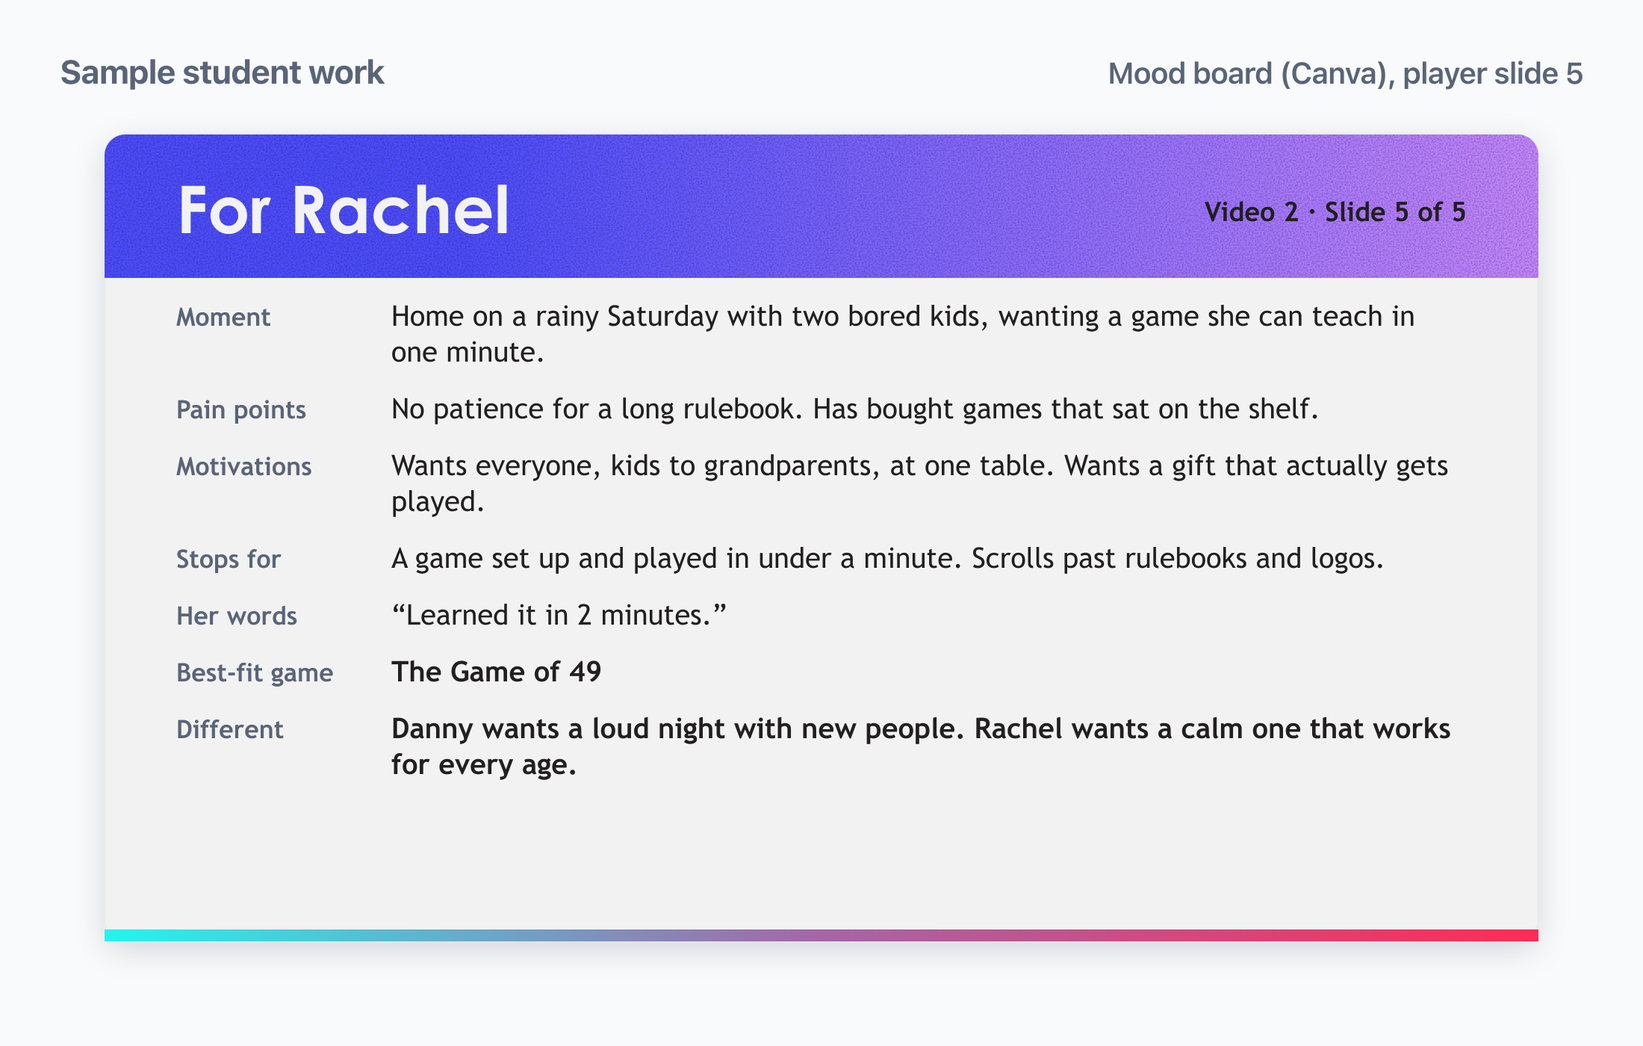
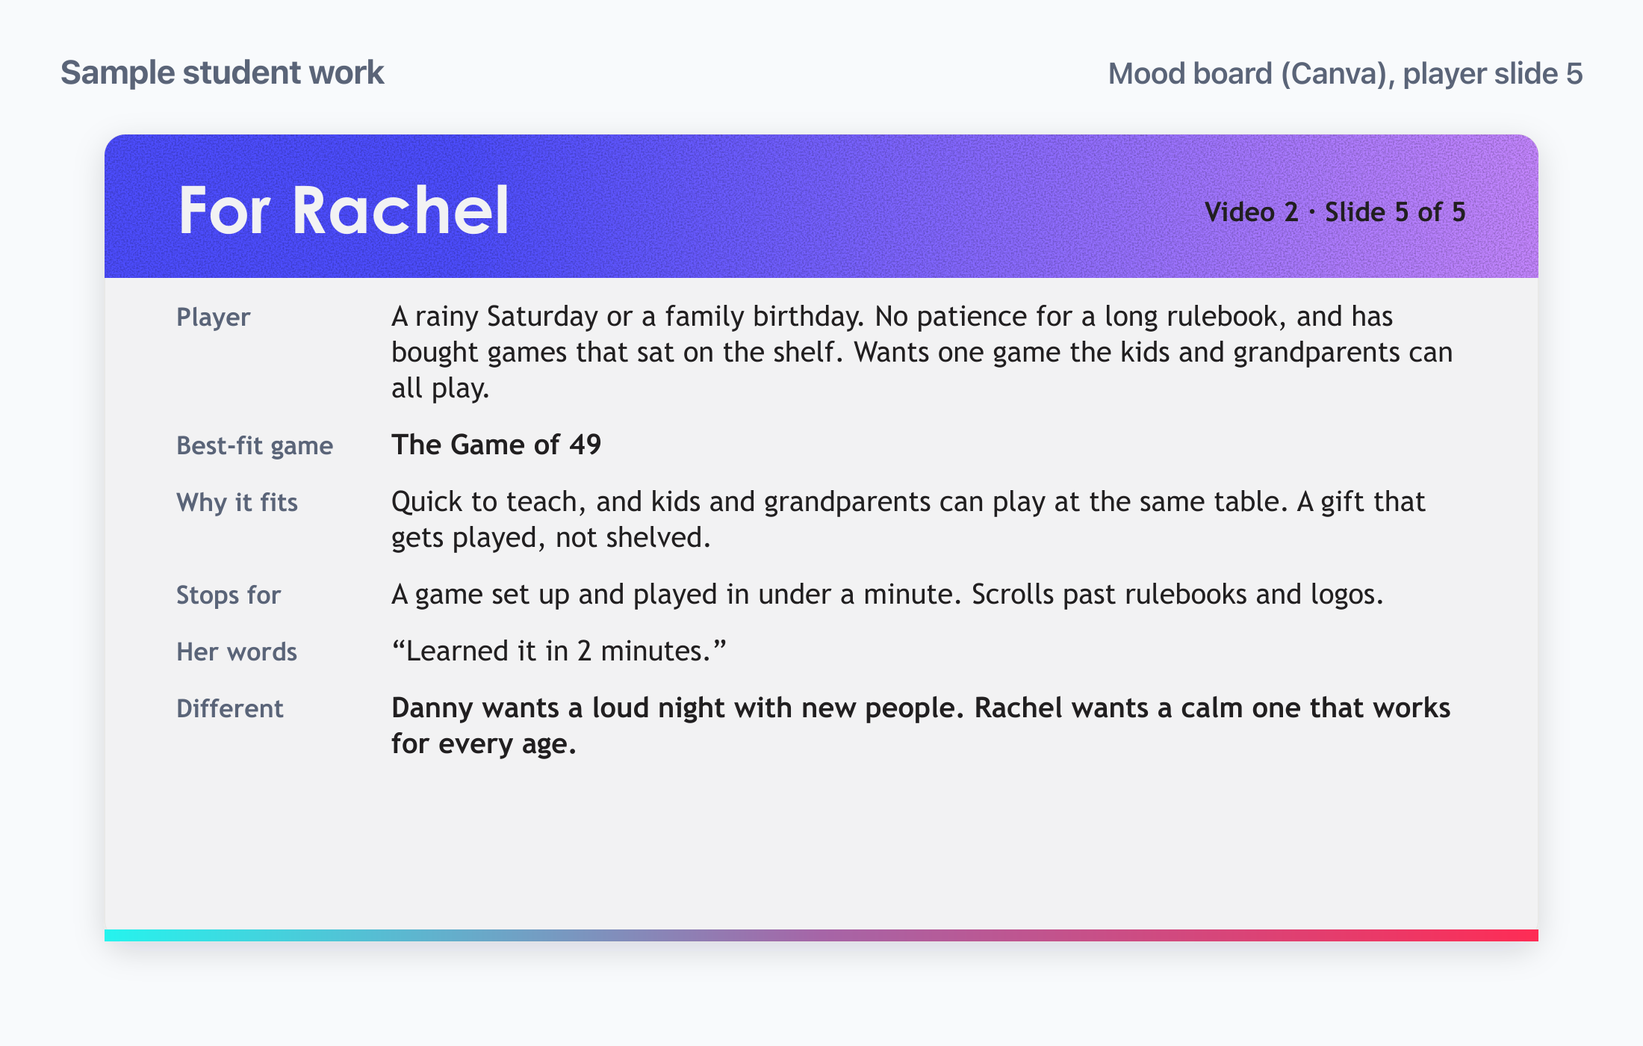
BG P2 Scroll tasks: pick the best-fit game instead of guessing pain points; 5-row player slides

diff --git a/breaking-games-p2-scroll-as-your-player-steps.html b/breaking-games-p2-scroll-as-your-player-steps.html
@@ -64,35 +64,36 @@ const TASK = {
   "steps": [
     {
       "title": "Set up your scroll notes",
-      "instruction": "Make a Google Doc named <b>BG-Scroll-Notes-[YourName]</b>. Add your player's name as a heading, your 2 questions from the last page, a <b>Saves</b> line and these 4 questions:",
+      "instruction": "Make a Google Doc named <b>BG-Scroll-Notes-[YourName]</b>. Add your player's name as a heading, then one line from their card: their moment, pain point and motivation in your own words. Add your 2 questions from the last page, a <b>Saves</b> line and these 4 questions:",
       "items": [
-        "<b>Moment:</b> Where are they, and what do they want right now?",
+        "<b>Games:</b> Which of your player's best-fit games show up? Does anything say a game fixes their pain point?",
         "<b>Stop:</b> What makes them stop, and what do they scroll past? Name something you could film.",
-        "<b>Their words:</b> Copy 1 or 2 phrases people like them use in captions or comments.",
-        "<b>Fit:</b> Which Breaking Games game fits that moment? Would they know it from what Breaking Games posts?"
+        "<b>Pain point and motivation:</b> Which posts speak to them? What do those posts show or say?",
+        "<b>Their words:</b> Copy 1 or 2 phrases people like them use in captions or comments."
       ],
       "sample": {
         "label": "Sample",
         "kind": "text",
-        "body": "BG-Scroll-Notes-JordanLee\nFor Danny\nMy questions: What does he comment on? Would he know Breaking Games?\nSaves: 1. 2. 3.\n1. Moment:\n2. Stop:\n3. Their words:\n4. Fit:"
+        "body": "BG-Scroll-Notes-JordanLee\nFor Danny\nFrom the card: Friday game night, 8 people, half strangers. Doesn't know which game works for a mixed group. Wants a night that works, and to be the one who found the game.\nMy questions: What does he comment on? Would he know Breaking Games?\nSaves: 1. 2. 3.\n1. Games:\n2. Stop:\n3. Pain point and motivation:\n4. Their words:"
       },
-      "onTrack": "your doc has a heading, a Saves line and all 4 questions.",
+      "onTrack": "your doc has the card line, a Saves line and all 4 questions.",
       "stuck": [
+        "Don't have the card handy? The text version of the Meet Rachel and Danny slides is on the last page.",
         "<b>Watch only</b>: don't like, comment, follow or tag anyone."
       ]
     },
     {
       "title": "Scroll as your player (20 minutes)",
-      "instruction": "Scroll on your phone (or a narrow browser window) where your player scrolls. Save 3 posts they'd stop for, each with one line on why. Then answer the 4 questions.",
+      "instruction": "Scroll on your phone (or a narrow browser window) where your player scrolls. Look for their best-fit games and for what would stop their scroll. Save 3 posts they'd stop for, each with one line on why. Then answer the 4 questions.",
       "items": [
-        "<b>Website (5 min):</b> <a href=\"https://breakinggames.com/collections/all-games\" target=\"_blank\" rel=\"noopener\">breakinggames.com: All Games<span class=\"sr-only\"> (opens in a new tab)</span></a>. Does anything tell your player a game fits their moment?",
-        "<b>Breaking Games' posts (5 min):</b> <a href=\"https://www.instagram.com/breaking_games/\" target=\"_blank\" rel=\"noopener\">Instagram<span class=\"sr-only\"> (opens in a new tab)</span></a> and <a href=\"https://www.facebook.com/BreakingGamesLLC/\" target=\"_blank\" rel=\"noopener\">Facebook<span class=\"sr-only\"> (opens in a new tab)</span></a> for Rachel, or <a href=\"https://www.tiktok.com/@breakinggamesllc\" target=\"_blank\" rel=\"noopener\">@breakinggamesllc<span class=\"sr-only\"> (opens in a new tab)</span></a> on TikTok for Danny. Which would they stop for?",
-        "<b>The wider feed (10 min):</b> <a href=\"https://www.instagram.com/explore/tags/familygamenight/\" target=\"_blank\" rel=\"noopener\">#familygamenight<span class=\"sr-only\"> (opens in a new tab)</span></a> and <a href=\"https://www.instagram.com/explore/tags/boardgamenight/\" target=\"_blank\" rel=\"noopener\">#boardgamenight<span class=\"sr-only\"> (opens in a new tab)</span></a> for Rachel, or <a href=\"https://www.tiktok.com/tag/gamenight\" target=\"_blank\" rel=\"noopener\">#gamenight<span class=\"sr-only\"> (opens in a new tab)</span></a>, <a href=\"https://www.tiktok.com/tag/boardgames\" target=\"_blank\" rel=\"noopener\">#boardgames<span class=\"sr-only\"> (opens in a new tab)</span></a> and <a href=\"https://www.tiktok.com/tag/partygames\" target=\"_blank\" rel=\"noopener\">#partygames<span class=\"sr-only\"> (opens in a new tab)</span></a> for Danny. What would they save or send to a friend?"
+        "<b>Website (5 min):</b> <a href=\"https://breakinggames.com/collections/all-games\" target=\"_blank\" rel=\"noopener\">breakinggames.com: All Games<span class=\"sr-only\"> (opens in a new tab)</span></a>. Find your player's best-fit games. Would anything on the page tell them a game fixes their pain point?",
+        "<b>Breaking Games' posts (5 min):</b> <a href=\"https://www.instagram.com/breaking_games/\" target=\"_blank\" rel=\"noopener\">Instagram<span class=\"sr-only\"> (opens in a new tab)</span></a> and <a href=\"https://www.facebook.com/BreakingGamesLLC/\" target=\"_blank\" rel=\"noopener\">Facebook<span class=\"sr-only\"> (opens in a new tab)</span></a> for Rachel, or <a href=\"https://www.tiktok.com/@breakinggamesllc\" target=\"_blank\" rel=\"noopener\">@breakinggamesllc<span class=\"sr-only\"> (opens in a new tab)</span></a> on TikTok for Danny. Do any of their best-fit games show up? Which post would they stop for?",
+        "<b>The wider feed (10 min):</b> <a href=\"https://www.instagram.com/explore/tags/familygamenight/\" target=\"_blank\" rel=\"noopener\">#familygamenight<span class=\"sr-only\"> (opens in a new tab)</span></a> and <a href=\"https://www.instagram.com/explore/tags/boardgamenight/\" target=\"_blank\" rel=\"noopener\">#boardgamenight<span class=\"sr-only\"> (opens in a new tab)</span></a> for Rachel, or <a href=\"https://www.tiktok.com/tag/gamenight\" target=\"_blank\" rel=\"noopener\">#gamenight<span class=\"sr-only\"> (opens in a new tab)</span></a>, <a href=\"https://www.tiktok.com/tag/boardgames\" target=\"_blank\" rel=\"noopener\">#boardgames<span class=\"sr-only\"> (opens in a new tab)</span></a> and <a href=\"https://www.tiktok.com/tag/partygames\" target=\"_blank\" rel=\"noopener\">#partygames<span class=\"sr-only\"> (opens in a new tab)</span></a> for Danny. What stops them? What would they save or send to a friend?"
       ],
       "sample": {
         "label": "Sample (Danny)",
         "kind": "text",
-        "body": "Save 1: [link] Four friends guess a word game out loud, and one gets it wrong in a funny way.\n1. Moment: texting 7 friends on Thursday, wanting a game for people who just met.\n2. Stop: people reacting out loud. Scrolls past: product shots with no people.\n3. His words: \"who's in Friday?\"\n4. Fit: Caminito, but the brand's TikTok hasn't posted in a long time."
+        "body": "Save 1: [link] Four friends guess a word game out loud, and one gets it wrong in a funny way. Why: the whole table reacts.\n1. Games: Caminito and Hypothetically Fun are on the site, but nothing says \"good for people who just met.\" The brand's TikTok hasn't posted in a long time.\n2. Stop: people reacting out loud. Scrolls past: product shots with no people.\n3. Pain point and motivation: posts that name the group size (\"8 players!\") get comments like \"good for strangers?\"\n4. His words: \"who's in Friday?\""
       },
       "onTrack": "you have 3 saves with a why, and your Stop line names something you could film, not a feeling like \"fun.\"",
       "stuck": [
@@ -102,33 +103,38 @@ const TASK = {
       ]
     },
     {
-      "title": "Guess their pain points and motivations",
-      "instruction": "Your scroll holds clues about what bugs your player and what they want. Write <b>2 pain points</b> and <b>2 motivations</b>, each with the clue behind it.",
+      "title": "Pick the best-fit game",
+      "instruction": "From your player's best-fit games, pick the one you'd show them first. Write 3 lines:",
+      "items": [
+        "<b>Fixes:</b> how the game answers their pain point.",
+        "<b>Gives them:</b> how it gets them what they want.",
+        "<b>Stops the scroll with:</b> one moment from playing it that you could film, based on what stopped them in your scroll."
+      ],
       "sample": {
         "label": "Sample (Danny)",
         "kind": "text",
-        "body": "Pain point: doesn't know which game works for people who just met. Clue: #partygames comments asking \"good for strangers?\"\nPain point: skips anything that looks like an ad. Clue: he'd scroll right past the product shots.\nMotivation: wants the night to feel easy and loud. Clue: all 3 saves show people reacting.\nMotivation: wants to be the friend who found the good game. Clue: \"who's in Friday?\" captions."
+        "body": "Game: Caminito\nFixes: it's built for a group, so half-strangers can play it together.\nGives him: a Friday that works, and he's the one who found the game.\nStops the scroll with: the whole table reacting out loud to one turn. All 3 of my saves were people reacting, not boxes."
       },
-      "onTrack": "each guess has a clue from your scroll, not just the card.",
+      "onTrack": "your \"Stops the scroll with\" line is something you could film this week, and it comes from your saves.",
       "stuck": [
-        "No clue for a guess? Mark it \"(from the card)\" and keep it. It's a guess your videos will test."
+        "Torn between two games? Pick the one you can get on camera: a copy at home, a friend's copy, or the <a href=\"https://smitabudhiaextern.github.io/extern-html-pages/bg-image-deck.html\" target=\"_blank\" rel=\"noopener\">Breaking Games product image deck<span class=\"sr-only\"> (opens in a new tab)</span></a>.",
+        "Not sure how a game plays? Read its page on breakinggames.com: the player count, play time and ages tell you a lot."
       ]
     },
     {
       "title": "Add your player slide",
-      "instruction": "In your Project 1 mood board on Canva, add one slide at the end: <b>For [your player]</b>. Use your board's colors and fonts, and give it 6 rows:",
+      "instruction": "In your Project 1 mood board on Canva, add one slide at the end: <b>For [your player]</b>. Use your board's colors and fonts, and give it 5 rows:",
       "items": [
-        "<b>Moment:</b> where they are and what they want right now.",
-        "<b>Pain points:</b> your 2 guesses, from step 3.",
-        "<b>Motivations:</b> your 2 guesses, from step 3.",
-        "<b>Stops for:</b> what makes them stop, and what they scroll past.",
-        "<b>Their words:</b> 1 or 2 phrases they'd use.",
-        "<b>Best-fit game:</b> the Breaking Games game that fits their moment."
+        "<b>Player:</b> their moment, pain point and motivation, summed up from the player card.",
+        "<b>Best-fit game:</b> the game you picked in step 3.",
+        "<b>Why it fits:</b> how it fixes their pain point and gives them what they want.",
+        "<b>Stops for:</b> what would stop their scroll for this game, and what they scroll past.",
+        "<b>Their words:</b> 1 or 2 phrases they'd use."
       ],
       "sample": {
         "label": "Sample (the \"For Danny\" slide)",
         "kind": "text",
-        "body": "For Danny\nMoment: texting 7 friends on Thursday about Friday, wanting a game for people who just met.\nPain points: doesn't know which game works for strangers; skips anything that looks like an ad.\nMotivations: wants the night to feel easy and loud; wants to be the friend who found the good game.\nStops for: people reacting out loud. Scrolls past: product shots with no people.\nHis words: \"who's in Friday?\"\nBest-fit game: Caminito"
+        "body": "For Danny\nPlayer: planning Friday for 8 people, half strangers. Doesn't know which game works for a mixed group, and skips ads. Wants a night that works, and to be the one who found the game.\nBest-fit game: Caminito\nWhy it fits: it's built for a group, so half-strangers can play it together. If the night goes well, Danny gets the credit.\nStops for: a whole table reacting out loud to one turn. Scrolls past: product shots with no people.\nHis words: \"who's in Friday?\""
       },
       "onTrack": "every row is filled in, and the slide looks like the rest of your board.",
       "stuck": [
@@ -155,12 +161,12 @@ const TASK = {
     "intro": "Your program manager checks your player slide against these three things.",
     "criteria": [
       {
-        "name": "Your scroll",
-        "lookFor": "The moment and \"stops for\" lines come from your own scroll, not just the player card."
+        "name": "Your game pick",
+        "lookFor": "One best-fit game, with how it fixes your player's pain point and gets them what they want."
       },
       {
-        "name": "Your guesses",
-        "lookFor": "2 pain points and 2 motivations, each backed by a clue."
+        "name": "Your scroll",
+        "lookFor": "The \"stops for\" line names something you could film, and it comes from your own scroll, not just the player card."
       },
       {
         "name": "On-brand",

diff --git a/breaking-games-p2-scroll-as-your-second-player-steps.html b/breaking-games-p2-scroll-as-your-second-player-steps.html
@@ -81,7 +81,7 @@ const TASK = {
     },
     {
       "title": "Scroll as them (20 minutes)",
-      "instruction": "In your <b>BG-Scroll-Notes</b> doc, add a heading for your second player, a <b>Saves</b> line and the same 4 questions. Then scroll where they scroll. Save 3 posts they'd stop for, each with a why, and answer the 4 questions.",
+      "instruction": "In your <b>BG-Scroll-Notes</b> doc, add a heading for your second player, one line from their card (moment, pain point and motivation), a <b>Saves</b> line and the same 4 questions. Then scroll where they scroll, looking for their best-fit games and what would stop them. Save 3 posts they'd stop for, each with a why, and answer the 4 questions.",
       "items": [
         "<b>For Rachel:</b> <a href=\"https://breakinggames.com/collections/all-games\" target=\"_blank\" rel=\"noopener\">breakinggames.com: All Games<span class=\"sr-only\"> (opens in a new tab)</span></a>, Breaking Games on <a href=\"https://www.instagram.com/breaking_games/\" target=\"_blank\" rel=\"noopener\">Instagram<span class=\"sr-only\"> (opens in a new tab)</span></a> and <a href=\"https://www.facebook.com/BreakingGamesLLC/\" target=\"_blank\" rel=\"noopener\">Facebook<span class=\"sr-only\"> (opens in a new tab)</span></a>, then <a href=\"https://www.instagram.com/explore/tags/familygamenight/\" target=\"_blank\" rel=\"noopener\">#familygamenight<span class=\"sr-only\"> (opens in a new tab)</span></a> and <a href=\"https://www.instagram.com/explore/tags/boardgamenight/\" target=\"_blank\" rel=\"noopener\">#boardgamenight<span class=\"sr-only\"> (opens in a new tab)</span></a>.",
         "<b>For Danny:</b> <a href=\"https://www.tiktok.com/@breakinggamesllc\" target=\"_blank\" rel=\"noopener\">@breakinggamesllc<span class=\"sr-only\"> (opens in a new tab)</span></a>, <a href=\"https://breakinggames.com/collections/all-games\" target=\"_blank\" rel=\"noopener\">breakinggames.com: All Games<span class=\"sr-only\"> (opens in a new tab)</span></a>, then <a href=\"https://www.tiktok.com/tag/gamenight\" target=\"_blank\" rel=\"noopener\">#gamenight<span class=\"sr-only\"> (opens in a new tab)</span></a>, <a href=\"https://www.tiktok.com/tag/boardgames\" target=\"_blank\" rel=\"noopener\">#boardgames<span class=\"sr-only\"> (opens in a new tab)</span></a> and <a href=\"https://www.tiktok.com/tag/partygames\" target=\"_blank\" rel=\"noopener\">#partygames<span class=\"sr-only\"> (opens in a new tab)</span></a>.",
@@ -90,7 +90,7 @@ const TASK = {
       "sample": {
         "label": "Sample (Rachel)",
         "kind": "text",
-        "body": "Save 1: [link] Hands deal cards while two kids shout guesses. Why: it's how fast she needs a game to be.\n1. Moment: rainy Saturday, kids want screens, Grandpa comes for dinner.\n2. Stop: a game set up and played in under a minute. Scrolls past: rulebooks and logos.\n3. Her words: \"learned it in 2 minutes\"\n4. Fit: The Game of 49, but nothing on the page says \"family night.\""
+        "body": "From the card: rainy Saturday or a family birthday. No patience for a long rulebook. Wants one game the kids and grandparents can all play.\nSave 1: [link] Hands deal cards while two kids shout guesses. Why: it's how fast she needs a game to be.\n1. Games: The Game of 49 and Play2Read are on the site, but nothing on the page says \"family night.\"\n2. Stop: a game set up and played in under a minute. Scrolls past: rulebooks and logos.\n3. Pain point and motivation: #familygamenight posts showing grandparents and kids at one table get the most saves.\n4. Her words: \"learned it in 2 minutes\""
       },
       "onTrack": "your answers are different from your first player's.",
       "stuck": [
@@ -99,33 +99,32 @@ const TASK = {
       ]
     },
     {
-      "title": "Guess their pain points and motivations",
-      "instruction": "Same as last week: write <b>2 pain points</b> and <b>2 motivations</b>, each with the clue from your scroll behind it.",
+      "title": "Pick the best-fit game",
+      "instruction": "Same as last week: pick one of their best-fit games and write 3 lines: <b>Fixes</b> (their pain point), <b>Gives them</b> (what they want) and <b>Stops the scroll with</b> (one moment you could film).",
       "sample": {
         "label": "Sample (Rachel)",
         "kind": "text",
-        "body": "Pain point: no patience for a long rulebook. Clue: the posts she'd save all show a game being played in seconds.\nPain point: has bought games that sat on the shelf. Clue: #familygamenight comments like \"finally one the kids will play.\"\nMotivation: wants every age at one table. Clue: her saves show grandparents and kids playing together.\nMotivation: wants a gift that actually gets played. Clue: \"game gift ideas\" posts get the most saves."
+        "body": "Game: The Game of 49\nFixes: quick to teach, so no rulebook night.\nGives her: one game the kids and grandparents play together, and a gift that gets played, not shelved.\nStops the scroll with: the box opened and the first round played in under a minute. Her saves were all fast set-ups."
       },
-      "onTrack": "each guess has a clue from your scroll, not just the card.",
+      "onTrack": "your \"Stops the scroll with\" line is something you could film, and it comes from your saves.",
       "stuck": [
-        "No clue for a guess? Mark it \"(from the card)\" and keep it."
+        "Built your own player? Use the best-fit games on the card you wrote."
       ]
     },
     {
       "title": "Add their player slide",
-      "instruction": "Add a second player slide to your mood board with the same 6 rows, plus one more line: <b>\"Different from my first player because ___.\"</b>",
+      "instruction": "Add a second player slide to your mood board with the same 5 rows, plus one more line: <b>\"Different from my first player because ___.\"</b>",
       "items": [
-        "<b>Moment:</b> where they are and what they want right now.",
-        "<b>Pain points:</b> your 2 guesses, from step 3.",
-        "<b>Motivations:</b> your 2 guesses, from step 3.",
-        "<b>Stops for:</b> what makes them stop, and what they scroll past.",
-        "<b>Their words:</b> 1 or 2 phrases they'd use.",
-        "<b>Best-fit game:</b> the Breaking Games game that fits their moment."
+        "<b>Player:</b> their moment, pain point and motivation, summed up from the player card.",
+        "<b>Best-fit game:</b> the game you picked in step 3.",
+        "<b>Why it fits:</b> how it fixes their pain point and gives them what they want.",
+        "<b>Stops for:</b> what would stop their scroll for this game, and what they scroll past.",
+        "<b>Their words:</b> 1 or 2 phrases they'd use."
       ],
       "sample": {
         "label": "Sample (the \"For Rachel\" slide)",
         "kind": "text",
-        "body": "For Rachel\nMoment: home on a rainy Saturday with two bored kids, wanting a game she can teach in one minute.\nPain points: no patience for a long rulebook; has bought games that sat on the shelf.\nMotivations: wants everyone, kids to grandparents, at one table; wants a gift that actually gets played.\nStops for: a game set up and played in under a minute. Scrolls past: rulebooks and logos.\nHer words: \"learned it in 2 minutes\"\nBest-fit game: The Game of 49\nDifferent from my first player because: Danny wants a loud night with new people; Rachel wants a calm one that works for every age."
+        "body": "For Rachel\nPlayer: a rainy Saturday or a family birthday. No patience for a long rulebook, and has bought games that sat on the shelf. Wants one game the kids and grandparents can all play.\nBest-fit game: The Game of 49\nWhy it fits: quick to teach, and kids and grandparents can play at the same table. A gift that gets played, not shelved.\nStops for: a game set up and played in under a minute. Scrolls past: rulebooks and logos.\nHer words: \"learned it in 2 minutes\"\nDifferent from my first player because: Danny wants a loud night with new people; Rachel wants a calm one that works for every age."
       },
       "onTrack": "your \"different because\" line names a real difference in moment or motivation.",
       "stuck": [
@@ -155,8 +154,8 @@ const TASK = {
         "lookFor": "Your second player is in a different group from your first. A player you built has a full card."
       },
       {
-        "name": "Your guesses",
-        "lookFor": "2 pain points and 2 motivations, each backed by a clue from your scroll."
+        "name": "Your game pick",
+        "lookFor": "One best-fit game, with how it fixes their pain point and gets them what they want, and a scroll-stopper from your scroll."
       },
       {
         "name": "The difference",

diff --git a/breaking-games-p2-quick-start.html b/breaking-games-p2-quick-start.html
@@ -349,7 +349,7 @@
       <p class="lead">You pick one player, then make Video 1 for them. This week's pages, in order:</p>
       <ol class="pages" aria-label="Week 2 pages, in order">
         <li><span class="pg-title">Choose Your First Player</span><span class="pg-type">Task</span><span class="pg-what">Meet Rachel and Danny and pick one for Video 1.</span></li>
-        <li><span class="pg-title">Scroll as Your Player and Add a Player Slide</span><span class="pg-type">Task</span><span class="pg-what">Scroll as your player and guess what they want.</span></li>
+        <li><span class="pg-title">Scroll as Your Player and Add a Player Slide</span><span class="pg-type">Task</span><span class="pg-what">Scroll as your player and pick their best-fit game.</span></li>
         <li><span class="pg-title">How TikTok Works</span><span class="pg-type">Training</span><span class="pg-what">Learn how TikTok picks who sees a video, and how a hook works.</span></li>
         <li><span class="pg-title">Video Formats That Work for Games</span><span class="pg-type">Training</span><span class="pg-what">Learn formats like Play-Along, Tutorial and GRWM.</span></li>
         <li><span class="pg-title">Plan Your Video 1</span><span class="pg-type">Task</span><span class="pg-what">Draft your hooks and shots, then expand them with AI.</span></li>
